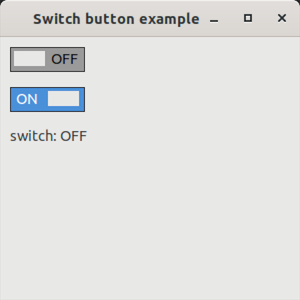
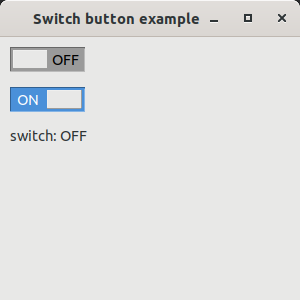
update pictures

diff --git a/examples/custom_controls/switch_button/switch_button.cpp b/examples/custom_controls/switch_button/switch_button.cpp
@@ -45,6 +45,7 @@ protected:
 
     color back_color = this->checked_ ? system_colors::menu_highlight() : system_colors::gray_text();
     color fore_color = this->checked_ ? color::white : color::black;
+    color slider_color = system_colors::control();
 
     size_f slider_size((this->width() - 6) / 2, this->height() - 6);
     point_f slider_location(this->checked_ ? point_f(this->width() / 2.0, 3.0) : point_f(3.0, 3.0));
@@ -60,11 +61,11 @@ protected:
     e.graphics().draw_line(pen(color::lighter(back_color), 2), e.clip_rectangle().left(), e.clip_rectangle().bottom(), e.clip_rectangle().right(), e.clip_rectangle().bottom());
     e.graphics().draw_line(pen(color::lighter(back_color), 2), e.clip_rectangle().right(), e.clip_rectangle().top() + 2, e.clip_rectangle().right(), e.clip_rectangle().bottom());
     
-    e.graphics().fill_rectangle(solid_brush(system_colors::control()), {slider_location, slider_size});
-    e.graphics().draw_line(pen(color::lighter(system_colors::control())), slider_location.x(), slider_location.y(), slider_location.x() + slider_size.width(), slider_location.y());
-    e.graphics().draw_line(pen(color::lighter(system_colors::control())), slider_location.x(), slider_location.y(), slider_location.x(), slider_location.y() + slider_size.height() - 2);
-    e.graphics().draw_line(pen(color::darker(system_colors::control())), slider_location.x(), slider_location.y() + slider_size.height() - 1, slider_location.x() + slider_size.width(), slider_location.y() + slider_size.height() - 1);
-    e.graphics().draw_line(pen(color::darker(system_colors::control())), slider_location.x() + slider_size.width(), slider_location.y(), slider_location.x() + slider_size.width(), slider_location.y() + slider_size.height() - 1);
+    e.graphics().fill_rectangle(solid_brush(slider_color), {slider_location, slider_size});
+    e.graphics().draw_line(pen(color::lighter(slider_color)), slider_location.x(), slider_location.y(), slider_location.x() + slider_size.width(), slider_location.y());
+    e.graphics().draw_line(pen(color::lighter(slider_color)), slider_location.x(), slider_location.y(), slider_location.x(), slider_location.y() + slider_size.height() - 2);
+    e.graphics().draw_line(pen(color::darker(slider_color)), slider_location.x(), slider_location.y() + slider_size.height() - 1, slider_location.x() + slider_size.width(), slider_location.y() + slider_size.height() - 1);
+    e.graphics().draw_line(pen(color::darker(slider_color)), slider_location.x() + slider_size.width(), slider_location.y(), slider_location.x() + slider_size.width(), slider_location.y() + slider_size.height() - 1);
   }
   
 private:
